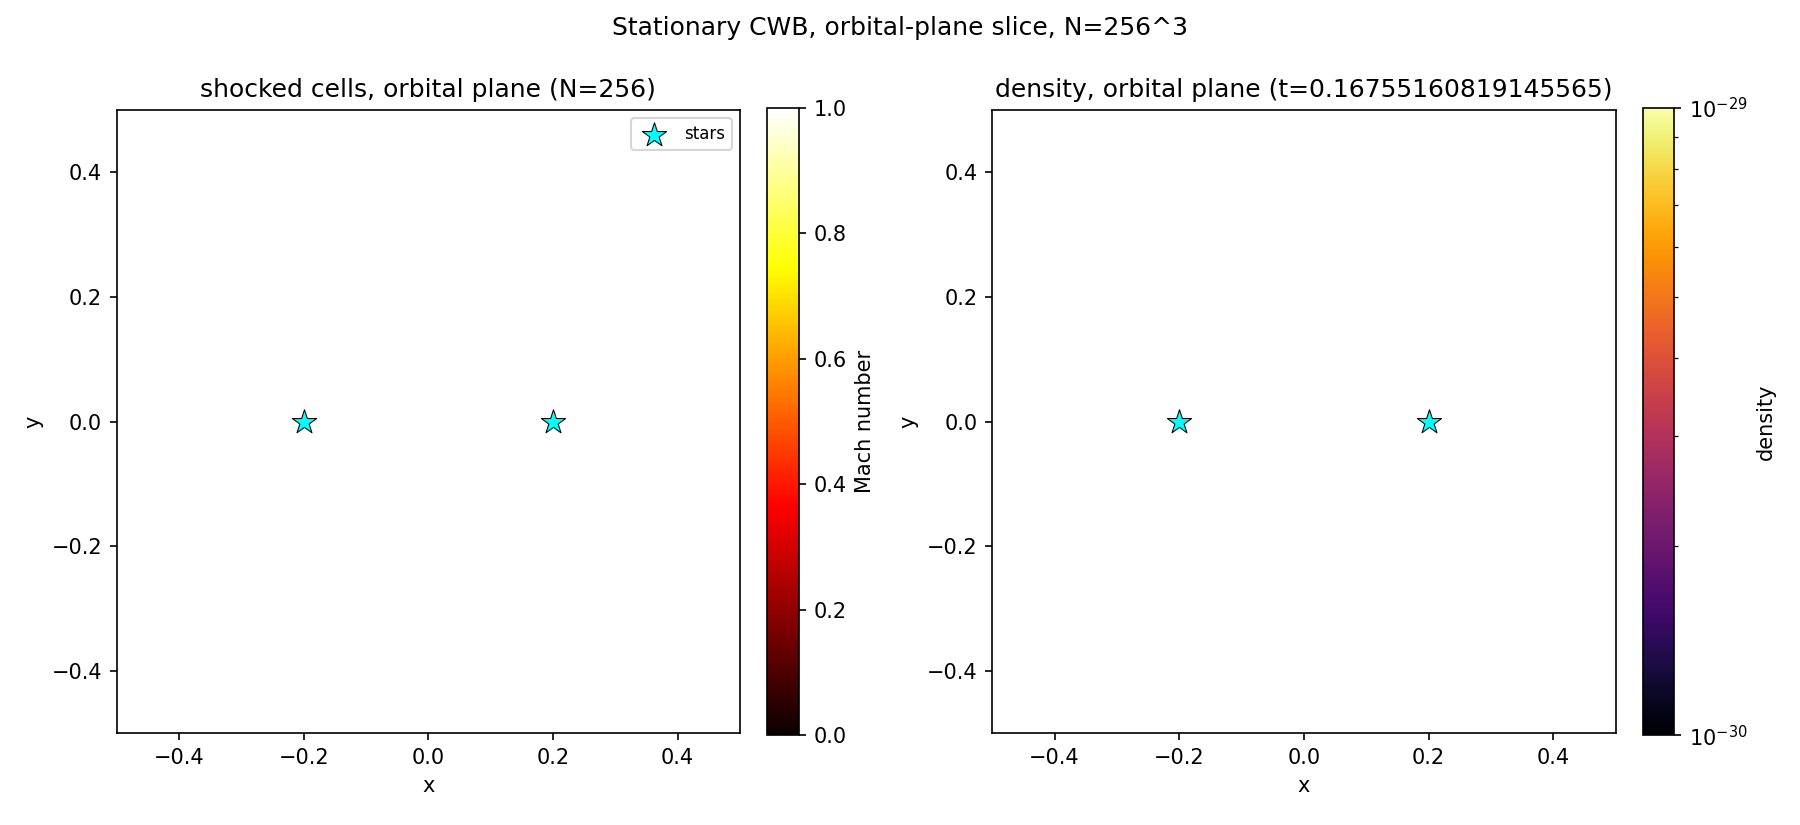
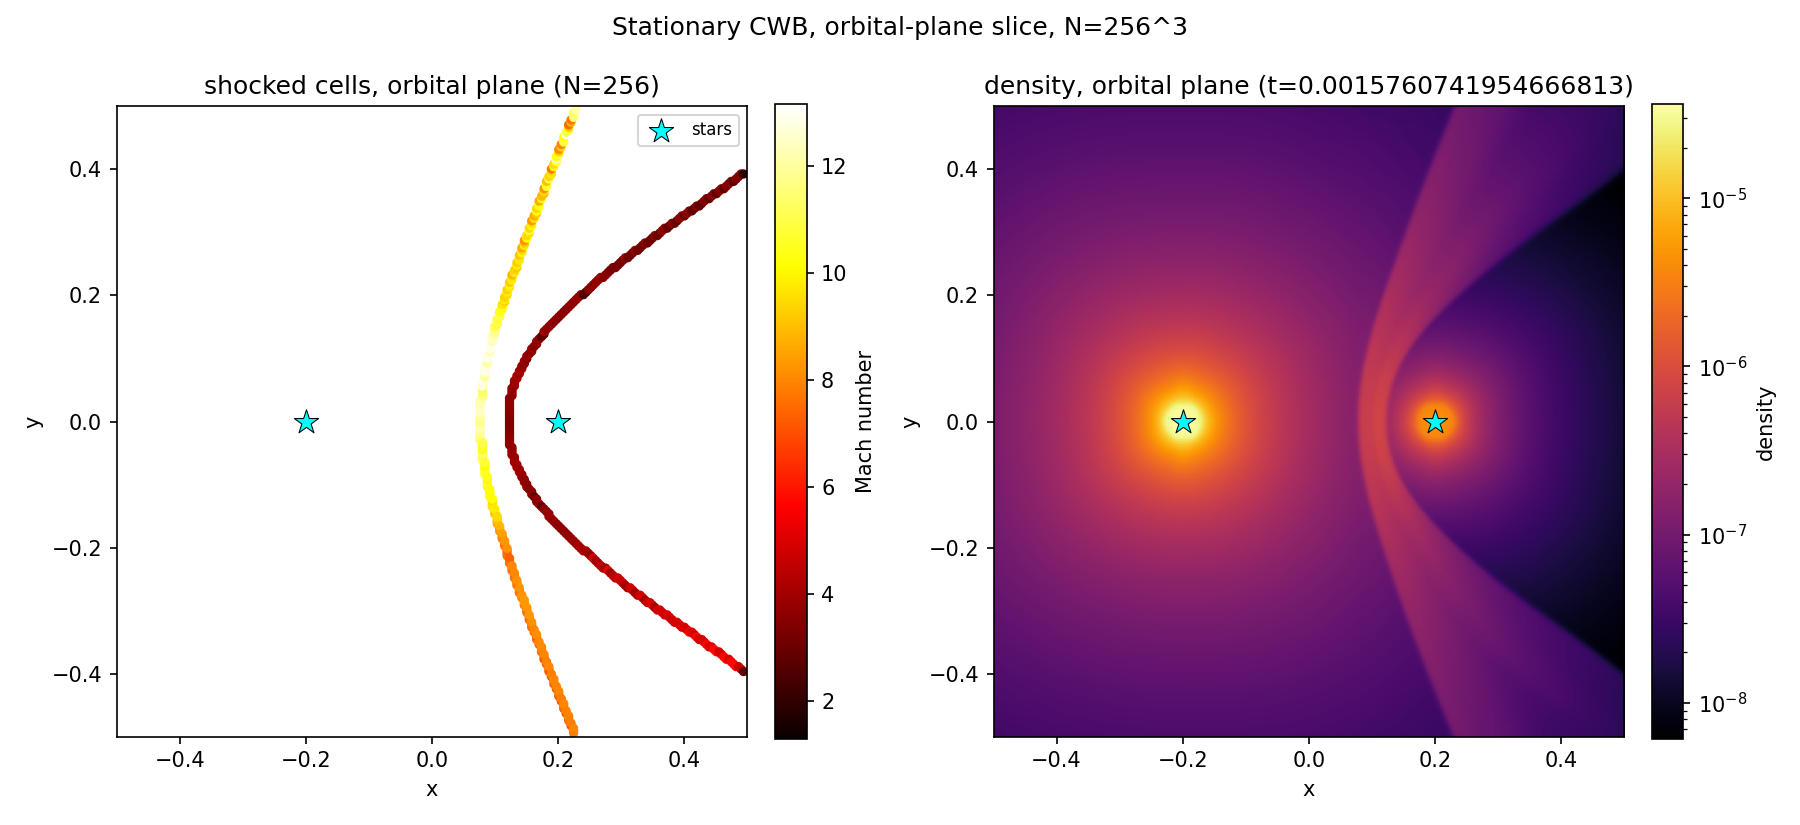
feat: Update energy budget calculations and improve documentation for CR-DSA Sedov blast simulations

diff --git a/pytests/shock_finder3D/cwb_shock_finder.py b/pytests/shock_finder3D/cwb_shock_finder.py
@@ -89,7 +89,7 @@ from _cwb_setup import (
 FIG_DIR = Path(__file__).resolve().parent / "figures"
 FIG_DIR.mkdir(exist_ok=True)
 
-NUM_CELLS = 512
+NUM_CELLS = 256
 STRONG_SHOCK_RHO_RATIO = (GAMMA + 1.0) / (GAMMA - 1.0)  # = 4 for gamma = 5/3
 # Fraction of surface cells required to respect the single-shock strong-shock
 # bound; see the module docstring's note on compound shocks. Empirically,

diff --git a/astronomix/_modules/_cosmic_rays_grey/DESIGN.md b/astronomix/_modules/_cosmic_rays_grey/DESIGN.md
@@ -1525,19 +1525,23 @@ pressure reshapes the velocity field, which then exchanges energy with B in `mag
 energy at fixed thermal pressure, so the constant cancels exactly.
 
 **New `pytests/cosmic_rays_grey/cr_mhd_energy_budget.py`.** `cr_energy_budget.py`'s periodic,
-fixed-timestep CR-DSA Sedov blast (48^3, 400 steps, `t_end=0.07`) threaded by uniform `B_x=0.2`,
+fixed-timestep CR-DSA Sedov blast (128^3, 1800 steps -- effective Courant ~0.6; 400 steps would be
+2.77 at this resolution -- `t_end=0.07`) threaded by uniform `B_x=0.2`,
 `numerical_precision=DOUBLE_PRECISION`, DSA + streaming + anisotropic transport on. Relative
 error on thermal + kinetic + magnetic + CR:
 
-    MHD only (CR off)                          1.35e-13
-    MHD + CR, isotropic transport              1.39e-13
-    MHD + CR, anisotropic transport (main)     1.40e-13
-    same, default SINGLE_PRECISION tolerance   1.55e-8
+    MHD only (CR off)                          7.5e-14
+    MHD + CR, isotropic transport              9.4e-14
+    MHD + CR, anisotropic transport (main)     9.4e-14
+    same, default SINGLE_PRECISION tolerance   1.5e-9
 
-Mass `3e-16`. Channels active: `E_mag` 0.0200 -> 0.0237 (`|dE_mag|/E_tot = 3.7e-3`), `E_cr/E_tot =
-0.019`; anisotropic-vs-isotropic states differ well above round-off. Asserts `tol=1e-9` on every
+(48^3/400 steps gave 1.4e-13 / 1.5e-8.) Mass `5e-15`. Channels active: `E_mag` 0.0200 -> 0.0243,
+`E_cr/E_tot = 0.028`; anisotropic-vs-isotropic states differ well above round-off. Asserts `tol=1e-9` on every
 double-precision configuration and that the single-precision tolerance run is `>10x` worse (keeps
-the explanation above pinned). Plot: `pytests/cosmic_rays_grey/pics/cr_mhd_energy_budget_test.svg`.
+the explanation above pinned). Plots: `pytests/cosmic_rays_grey/pics/cr_mhd_energy_budget_test.svg` (budget) and
+`cr_mhd_energy_budget_fields.png` (midplane density, |B|^2 + field lines, plasma beta, e_cr for
+anisotropic vs. isotropic transport, centre cuts along/across B). With anisotropic transport CRs
+reach further into the cavity along B than across it (cavity 0.45-0.55 in x vs. 0.37-0.63 in y).
 
 **Not changed (flagged for a decision):** `magnetic_update` could pick its tolerance from the array
 dtype instead of `config.numerical_precision`, which would make float64 MHD runs conserve energy by

diff --git a/astronomix/_modules/_cosmic_rays_grey/PROGRESS.md b/astronomix/_modules/_cosmic_rays_grey/PROGRESS.md
@@ -8,17 +8,18 @@ file is what's actually done against it.
 
 **Item 18 now covers thermal + kinetic + magnetic + CR.** New
 `pytests/cosmic_rays_grey/cr_mhd_energy_budget.py`: item 18's periodic, fixed-dt CR-DSA Sedov blast
-(48^3, 400 steps) threaded by uniform `B_x=0.2`, DSA + streaming + anisotropic transport on,
-`numerical_precision=DOUBLE_PRECISION`. Relative total-energy error `1.40e-13` (isotropic
-transport `1.39e-13`, CR-off MHD control `1.35e-13`); mass `3e-16`. `E_mag` 0.0200 -> 0.0237,
-`E_cr/E_tot=0.019`. Passes (GPU 0, float64).
+(now 128^3, 1800 steps for effective Courant ~0.6) threaded by uniform `B_x=0.2`, DSA + streaming +
+anisotropic transport on, `numerical_precision=DOUBLE_PRECISION`. Relative total-energy error
+`9.4e-14` (isotropic `9.4e-14`, CR-off MHD control `7.5e-14`, SINGLE_PRECISION tolerance `1.5e-9`);
+mass `5e-15`. `E_mag` 0.0200 -> 0.0243, `E_cr/E_tot=0.028`. Passes (GPU 0, float64, ~70 min for the
+four runs). Also writes `pics/cr_mhd_energy_budget_fields.png` (midplane MHD/CR field maps).
 
 **The ~1e-6 "MHD truncation residual" from 2026-09-18 was misdiagnosed -- it's the magnetic
 update's fixed-point tolerance.** Instrumented a real `time_integration` run's sub-steps: gas
 half-steps conserve energy to `~1e-14`, all of the residual is in `magnetic_update`, whose
 implicit-midpoint scheme is exactly conservative at convergence (discrete summation by parts,
 `-2.9e-16`) but whose loop stops at `1e-5` because `config.numerical_precision` defaults to
-`SINGLE_PRECISION` even under `jax_enable_x64`. Same run with that default: `1.55e-8`. Plain-MHD
+`SINGLE_PRECISION` even under `jax_enable_x64`. Same run with that default: `1.5e-8` at 48^3, `1.5e-9` at 128^3. Plain-MHD
 baseline (`pytests/mhd/mhd_energy_conservation.py`) re-run with `DOUBLE_PRECISION`: `7.5e-12`
 (N=8) / `2.1e-12` (N=16), was `6.3e-6` / `2.3e-6`; its docstring, tolerance (`1e-5` -> `1e-9`) and
 the "must shrink with resolution" assertion were corrected. `cr_energy_budget.py`'s docstring
